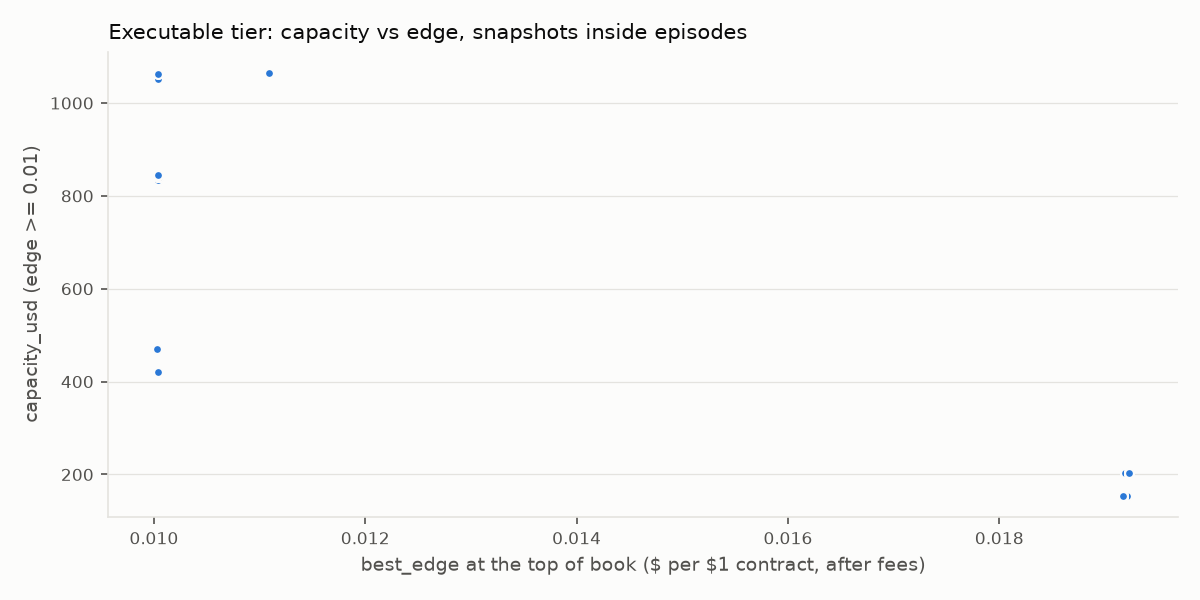
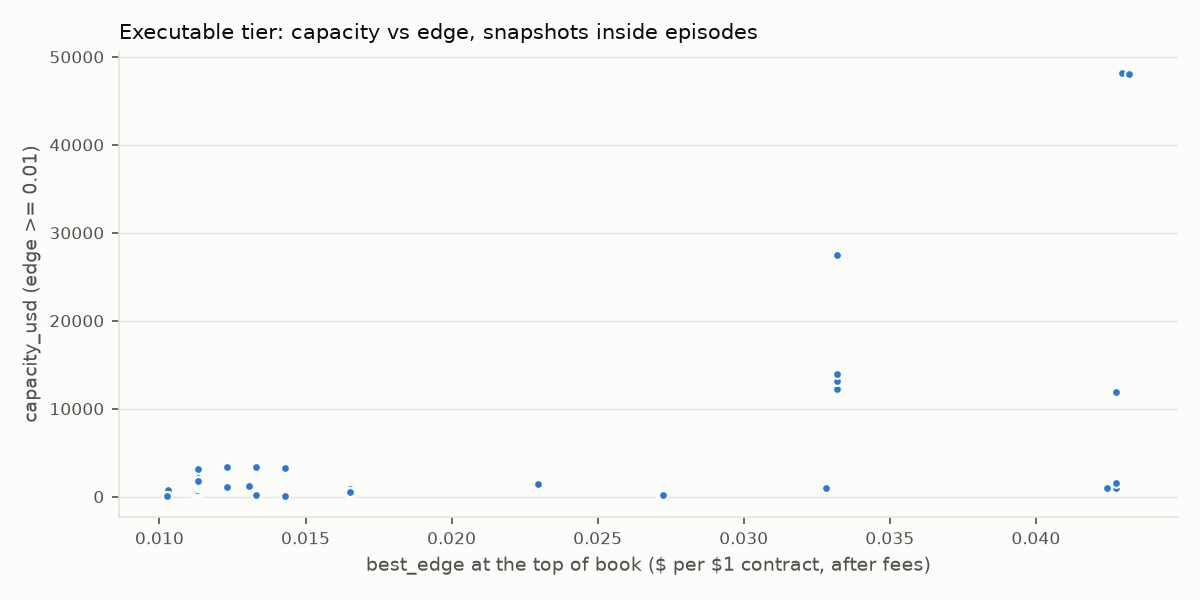
Research note regenerated at the dashboard v2 deploy: 68 h executable window, 13 episodes, ladder tier populated (2 of 1,469,130 admissible checks), review sitting recorded

diff --git a/reports/research-note-v1.md b/reports/research-note-v1.md
@@ -1,6 +1,6 @@
 # Do exact Kalshi-Polymarket matches carry arbitrage? Research note v1
 
-Generated 2026-10-20 11:05 UTC by `python -m venue_arb.report.note`. Every number below is computed from the tables named in Method at generation time; the queries are listed at the end. This is v1: the executable tier covers only the snapshots collected so far, and the note is re-run once about four weeks of snapshots exist.
+Generated 2026-10-22 15:41 UTC by `python -m venue_arb.report.note`. Every number below is computed from the tables named in Method at generation time; the queries are listed at the end. This is v1: the executable tier covers only the snapshots collected so far, and the note is re-run once about four weeks of snapshots exist.
 
 ## Question
 
@@ -8,38 +8,38 @@ When Kalshi and Polymarket list the same contract, do their prices leave money o
 
 **Short answer so far** (each figure is restated with its source under Results):
 
-- Executable tier: 3 opportunity episodes in 16.1 h of snapshots (too short to conclude anything); the largest top-of-book edge after fees was 0.0192 per $1 against a 0.01 threshold.
+- Executable tier: 13 opportunity episodes in 69.1 h of snapshots (too short to conclude anything); the largest top-of-book edge after fees was 0.0432 per $1 against a 0.01 threshold.
 - Screened tier (history, not executable): median hourly net gap -0.032; 3.5% of rows reached 0.01 (a count biased in both directions: the 1-contract fee ceiling pushes it down, the mid/last Polymarket price pushes it up; see Limits), 31.4% of those in a pair's first 7 days.
-- Same-instant crypto ladders (model-free, a separate tier): no ladder snapshots yet. Nothing has been scored, so this tier has no result in either direction.
+- Same-instant crypto ladders (model-free, a separate tier): 2 of 1,469,130 admissible cross-strike checks (0.0%, over 21 counted hours) had an executable edge >= 0.01 after fees with the strikes at least the basis bound apart; 0 episodes in 47.6 h of ladder snapshots (too short to conclude anything); largest top-of-book edge 0.0178 per $1.
 
 ## Data and window
 
 - Venues: Kalshi and Polymarket International (public read endpoints only; no orders).
-- Pairs: 15 eligible exact pairs at generation time (0 human-reviewed, 15 not), Kalshi series: `KXFEDDECISION`.
+- Pairs: 15 eligible exact pairs at generation time (15 human-reviewed, 0 not), Kalshi series: `KXFEDDECISION`.
 - Screened tier: hourly, 2026-06-18 00:00 UTC to 2026-10-19 20:00 UTC; 27,043 rows (13,751 pair-hours, up to two directions each) over 9 pairs.
-- Executable tier: order-book snapshots at a 60 s cadence, 2026-10-19 18:33 UTC to 2026-10-20 10:37 UTC (16.1 h); 14,475 aligned pair-snapshots (28,950 rows, one per direction) over 15 pairs.
-- Ladder tier: no ladder snapshots yet. The live collector snapshots same-instant ladders only from Plan 3's deployment on; `venue_arb.ladder_edges` holds no rows.
+- Executable tier: order-book snapshots at a 60 s cadence, 2026-10-19 18:33 UTC to 2026-10-22 15:37 UTC (69.1 h); 62,099 aligned pair-snapshots (124,198 rows, one per direction) over 15 pairs.
+- Ladder tier: order-book snapshots of same-instant crypto ladders at a 60 s cadence, 2026-10-20 15:10 UTC to 2026-10-22 14:48 UTC (47.6 h); 88 ladders (BTC 44, ETH 44), 5951 Kalshi and 1576 Polymarket strikes with scored rows.
 - Tier scope: both pair tiers keep every pair whose latest prompt-v3 adjudication is `exact` and that has no `wrong`/`unsure` review of that verdict (reviews made against an older prompt's verdict are ignored), whether or not it is open now (a closed pair's history is still evidence). Pairs are Kalshi-Polymarket market pairs.
   - Screened: 9 pairs in scope (9 currently eligible, 0 closed, 0 open but not currently eligible); excluded pairs with rows in the table: none.
   - Executable: 15 pairs in scope (15 currently eligible, 0 closed, 0 open but not currently eligible); excluded pairs with rows in the table: none.
 
 | Kalshi ticker | Polymarket market | LLM confidence | Human review | Closes |
 |---|---|---|---|---|
-| KXFEDDECISION-26DEC-C25 | `0xf17ad24e...` | 1.00 | none | 2026-12-09 23:59 UTC |
-| KXFEDDECISION-26DEC-C26 | `0xb9aee520...` | 1.00 | none | 2026-12-09 23:59 UTC |
-| KXFEDDECISION-26DEC-H0 | `0x723822eb...` | 1.00 | none | 2026-12-09 23:59 UTC |
-| KXFEDDECISION-26DEC-H25 | `0x8a419661...` | 1.00 | none | 2026-12-09 23:59 UTC |
-| KXFEDDECISION-26DEC-H26 | `0xa5f8a445...` | 1.00 | none | 2026-12-09 23:59 UTC |
-| KXFEDDECISION-26OCT-C25 | `0x9cf563d7...` | 1.00 | none | 2026-10-29 03:59 UTC |
-| KXFEDDECISION-26OCT-C26 | `0xa69ef420...` | 1.00 | none | 2026-10-29 03:59 UTC |
-| KXFEDDECISION-26OCT-H0 | `0xdf9bf27e...` | 1.00 | none | 2026-10-29 03:59 UTC |
-| KXFEDDECISION-26OCT-H25 | `0x12aa13b3...` | 1.00 | none | 2026-10-29 03:59 UTC |
-| KXFEDDECISION-26OCT-H26 | `0xde5d75ab...` | 1.00 | none | 2026-10-29 03:59 UTC |
-| KXFEDDECISION-27JAN-C25 | `0x0bbe79a9...` | 1.00 | none | 2027-01-28 04:59 UTC |
-| KXFEDDECISION-27JAN-C26 | `0xfd0fb47d...` | 1.00 | none | 2027-01-28 04:59 UTC |
-| KXFEDDECISION-27JAN-H0 | `0xf6e7c89e...` | 1.00 | none | 2027-01-28 04:59 UTC |
-| KXFEDDECISION-27JAN-H25 | `0x50642b28...` | 1.00 | none | 2027-01-28 04:59 UTC |
-| KXFEDDECISION-27JAN-H26 | `0x21cd6160...` | 1.00 | none | 2027-01-28 04:59 UTC |
+| KXFEDDECISION-26DEC-C25 | `0xf17ad24e...` | 1.00 | correct | 2026-12-09 23:59 UTC |
+| KXFEDDECISION-26DEC-C26 | `0xb9aee520...` | 1.00 | correct | 2026-12-09 23:59 UTC |
+| KXFEDDECISION-26DEC-H0 | `0x723822eb...` | 1.00 | correct | 2026-12-09 23:59 UTC |
+| KXFEDDECISION-26DEC-H25 | `0x8a419661...` | 1.00 | correct | 2026-12-09 23:59 UTC |
+| KXFEDDECISION-26DEC-H26 | `0xa5f8a445...` | 1.00 | correct | 2026-12-09 23:59 UTC |
+| KXFEDDECISION-26OCT-C25 | `0x9cf563d7...` | 1.00 | correct | 2026-10-29 03:59 UTC |
+| KXFEDDECISION-26OCT-C26 | `0xa69ef420...` | 1.00 | correct | 2026-10-29 03:59 UTC |
+| KXFEDDECISION-26OCT-H0 | `0xdf9bf27e...` | 1.00 | correct | 2026-10-29 03:59 UTC |
+| KXFEDDECISION-26OCT-H25 | `0x12aa13b3...` | 1.00 | correct | 2026-10-29 03:59 UTC |
+| KXFEDDECISION-26OCT-H26 | `0xde5d75ab...` | 1.00 | correct | 2026-10-29 03:59 UTC |
+| KXFEDDECISION-27JAN-C25 | `0x0bbe79a9...` | 1.00 | correct | 2027-01-28 04:59 UTC |
+| KXFEDDECISION-27JAN-C26 | `0xfd0fb47d...` | 1.00 | correct | 2027-01-28 04:59 UTC |
+| KXFEDDECISION-27JAN-H0 | `0xf6e7c89e...` | 1.00 | correct | 2027-01-28 04:59 UTC |
+| KXFEDDECISION-27JAN-H25 | `0x50642b28...` | 1.00 | correct | 2027-01-28 04:59 UTC |
+| KXFEDDECISION-27JAN-H26 | `0x21cd6160...` | 1.00 | correct | 2027-01-28 04:59 UTC |
 
 ## Method
 
@@ -50,11 +50,11 @@ When Kalshi and Polymarket list the same contract, do their prices leave money o
 **Two pair tiers, never combined** (the ladder tier below is a third, also kept apart).
 
 - *Screened* (`venue_arb.screened_v2`): Kalshi's hourly candle close ask (Yes ask, or 1 - Yes bid for No), taken at the candle's `end_period_ts`, the instant Kalshi documents the close quote for, against the Polymarket price-history print nearest that instant (within 30 minutes; none, no row) for the opposite leg, minus one contract's taker fee on each leg: `net_gap_top = 1 - k_price - pm_price - fees`. Hours where Kalshi's book side was empty give no row. Polymarket history is a traded/mid price, not an ask, so this tier says where gaps tended to appear, not that they were executable. (`venue_arb.screened`, v1, paired each Kalshi close with the Polymarket print about an hour earlier and is no longer read.)
-- *Executable* (`venue_arb.edges`, `venue_arb.opportunities`): our own order-book snapshots. A Kalshi snapshot is aligned with the nearest Polymarket snapshot within 30 s. Both ask ladders are walked together; `best_edge` is the top-of-book edge after fees and `capacity_usd` the dollars spent on both legs while the marginal edge stays >= 0.01.
+- *Executable* (`venue_arb.edges`, `venue_arb.opportunities`): our own order-book snapshots. A Kalshi snapshot is aligned with the nearest Polymarket snapshot within 30 s. Both ask ladders are walked together; `best_edge` is the top-of-book edge after fees and `capacity_usd` the dollars spent on both legs while the marginal edge stays >= 0.01. Snapshots are taken every 60 s; a gap over 150 s between consecutive snapshots breaks an episode's run.
 
-**Threshold (an episode).** Net edge >= $0.01 per $1 contract, >= $100 executable, in >= 2 consecutive snapshots (a gap over 150 s breaks the run).
+**Edge and the episode threshold.** Prices come from our own snapshots of both venues' order books, taken every 60 seconds, not from last trades or midpoints. For each exact pair we buy Yes on one venue and No on the other, walking up both venues' lists of offers slice by slice and paying each venue's taker fee, so the edge is what is left per $1 contract after the cost of trading. An episode is a stretch where that net edge is at least 1¢, at least $100 can be filled, and both hold in at least 2 consecutive snapshots.
 
-**Fees** (entries dated 2026-10-19, sources in `docs/venues.md`). Kalshi taker: `0.07 x C x P x (1-P)` times the series' `fee_multiplier` (read from the API), rounded up to the cent; the 0.07 coefficient is secondhand (see Limits). Polymarket taker: `C x rate x (P(1-P))^exponent` read from each market's own `feeSchedule` (here: `{"exponent": 1, "rate": 0.05, "rebateRate": 0.25, "takerOnly": true}`), no rounding.
+**Fees** (entries dated 2026-10-19, sources in `docs/venues.md`). Kalshi taker: `0.07 x C x P x (1-P)` times the series' `fee_multiplier` (read from the API), rounded up to the cent; the 0.07 coefficient is secondhand (see Limits). Polymarket taker: `C x rate x (P(1-P))^exponent` read from each market's own `feeSchedule` (here: `{"exponent": 1, "rate": 0, "rebateRate": 0, "takerOnly": true}`), no rounding.
 
 **Transfer cost** (an assumption, not a venue number): $10 fixed + 10 bps per round trip of capital between venues. It is reported as a sensitivity count, not subtracted from the headline edge.
 
@@ -68,12 +68,12 @@ When Kalshi and Polymarket list the same contract, do their prices leave money o
 
 | Asset | Hours (n) | up ($) | down ($) | Mean diff | Min diff | Max diff |
 |---|---|---|---|---|---|---|
-| BTC | 693 | 182 | 152 | -$48.06 (-5.8 bps) | -$151.18 | +$181.59 |
-| ETH | 693 | 6 | 7 | -$1.52 (-6.0 bps) | -$6.72 | +$5.83 |
+| BTC | 689 | 182 | 152 | -$52.97 (-6.4 bps) | -$151.18 | +$181.59 |
+| ETH | 689 | 6 | 7 | -$1.65 (-6.6 bps) | -$6.72 | +$5.83 |
 
-On average BRTI sits below Binance at the settle (BTC -$48.06 (-5.8 bps), ETH -$1.52 (-6.0 bps)), so the two venues' settle prices differ even when nothing moves; that is why same-strike pairs are not arbitrage.
+On average BRTI sits below Binance at the settle (BTC -$52.97 (-6.4 bps), ETH -$1.65 (-6.6 bps)), so the two venues' settle prices differ even when nothing moves; that is why same-strike pairs are not arbitrage.
 
-- *Admissible checks.* A cross-strike check counts only if the strikes are far enough apart that the $0 state needs a basis move beyond the bound: `k_yes_pm_no` needs b - a >= down, `pm_yes_k_no` needs a - b >= up. These are stored as `kind = 'arb'`.
+- *Admissible checks.* Both venues list Bitcoin and Ethereum price ladders, but they settle on different price indexes, so only ladders that settle at the same instant are compared. A Kalshi strike against a different Polymarket strike counts only when the gap between the two strikes is at least the 99.9th percentile of the difference between the two settlement indexes over the past 30 days. Then at least one leg pays out in every state, as long as the indexes stay within that measured range. In the stored terms, `k_yes_pm_no` needs b - a >= down and `pm_yes_k_no` needs a - b >= up; these checks are stored as `kind = 'arb'`.
 - *Near-exact same-strike pairs* (|a - b| <= $1 after normalization, e.g. Kalshi `T81499.99` vs Polymarket "above 81,500") are classified first, scored in both directions and stored as `kind = 'near_exact'`. Both legs lose if the settle falls between the two indices, a band up to `down` (`k_yes_pm_no`) or `up` (`pm_yes_k_no`) dollars wide, so they are reported separately with that exposure and never as arbitrage, and they form no episodes.
 - *Pruning and the denominator.* Per Kalshi strike and direction only the 2 nearest admissible Polymarket strikes are scored and stored: the cost is Kalshi Yes(a) + Polymarket No(b), and No(b) rises with b, so the nearest admissible strike is the cheapest when books are monotone (the second is margin for books that are not). Every admissible check, scored or pruned, is counted by the scoring flow and recorded as the `ladder_admissible_checks` qa result; that count is the denominator. A check is one strike pair, one direction, one aligned snapshot. Each hourly run rescores the last 3 h but counts only snapshots in the 1-hour clock bucket before its start (the bucket is recorded with the count), so successive runs count disjoint hours and their sum counts each snapshot once; a manual re-run of a bucket is kept once. The numerator is restricted to the same hours. A failed or skipped run leaves its hour out of both, so the share covers counted hours only; tests record under a separate qa pipeline and never enter it.
 - *Execution rules* are the executable tier's: ask ladders walked together with taker fees on both legs, snapshots aligned within 30 s, edge threshold 0.01, the same episode definition. Only snapshots strictly before H count (from H on, the outcome is being fixed). Episodes are stored in `venue_arb.opportunities` with `source = 'ladder'`; every pair-tier query reads `source = 'pair'` only.
@@ -106,36 +106,36 @@ On average BRTI sits below Binance at the settle (BTC -$48.06 (-5.8 bps), ETH -$
 
 ### Executable tier (order books)
 
-- Aligned pair-snapshots: 14,475; with capacity > 0 in either direction (marginal edge >= 0.01 at the top): 704 (4.9%).
-- `best_edge` (per row, both directions) p50 -0.0144, max 0.0192.
-- Opportunity episodes: 3. Duration median 121.0 min, max 570.0 min; median capacity $834, max $1,065; median annualized edge 8.0%.
-- Episodes still positive after the transfer assumption: 1 of 3 (approximate and optimistic: it credits each episode's maximum edge on all of its median capacity, against `transfer_cost_usd`).
+- Aligned pair-snapshots: 62,099; with capacity > 0 in either direction (marginal edge >= 0.01 at the top): 3,937 (6.3%).
+- `best_edge` (per row, both directions) p50 -0.0084, max 0.0432.
+- Opportunity episodes: 13. Duration median 58.0 min, max 840.0 min; median capacity $396, max $13,242; median annualized edge 8.5%.
+- Episodes still positive after the transfer assumption: 4 of 13 (approximate and optimistic: it credits each episode's maximum edge on all of its median capacity, against `transfer_cost_usd`).
 
 | Kalshi ticker | Snapshots | Max best_edge | Snapshots with capacity > 0 |
 |---|---|---|---|
-| KXFEDDECISION-26DEC-C25 | 965 | 0.0020 | 0 |
-| KXFEDDECISION-26DEC-C26 | 965 | -0.0078 | 0 |
-| KXFEDDECISION-26DEC-H0 | 965 | 0.0192 | 122 |
-| KXFEDDECISION-26DEC-H25 | 965 | 0.0077 | 0 |
-| KXFEDDECISION-26DEC-H26 | 965 | 0.0111 | 582 |
-| KXFEDDECISION-26OCT-C25 | 965 | -0.0078 | 0 |
-| KXFEDDECISION-26OCT-C26 | 965 | n/a | 0 |
-| KXFEDDECISION-26OCT-H0 | 965 | -0.0144 | 0 |
-| KXFEDDECISION-26OCT-H25 | 965 | -0.0144 | 0 |
-| KXFEDDECISION-26OCT-H26 | 965 | -0.0078 | 0 |
-| KXFEDDECISION-27JAN-C25 | 965 | 0.0050 | 0 |
-| KXFEDDECISION-27JAN-C26 | 965 | -0.0050 | 0 |
-| KXFEDDECISION-27JAN-H0 | 965 | -0.0178 | 0 |
-| KXFEDDECISION-27JAN-H25 | 965 | -0.0266 | 0 |
-| KXFEDDECISION-27JAN-H26 | 965 | -0.0054 | 0 |
+| KXFEDDECISION-26DEC-C25 | 4,140 | 0.0023 | 0 |
+| KXFEDDECISION-26DEC-C26 | 4,140 | -0.0057 | 0 |
+| KXFEDDECISION-26DEC-H0 | 4,140 | 0.0272 | 227 |
+| KXFEDDECISION-26DEC-H25 | 4,140 | 0.0165 | 714 |
+| KXFEDDECISION-26DEC-H26 | 4,140 | 0.0143 | 2,476 |
+| KXFEDDECISION-26OCT-C25 | 4,139 | -0.0077 | 0 |
+| KXFEDDECISION-26OCT-C26 | 4,140 | n/a | 0 |
+| KXFEDDECISION-26OCT-H0 | 4,140 | 0.0048 | 0 |
+| KXFEDDECISION-26OCT-H25 | 4,140 | 0.0043 | 0 |
+| KXFEDDECISION-26OCT-H26 | 4,140 | -0.0077 | 0 |
+| KXFEDDECISION-27JAN-C25 | 4,140 | 0.0083 | 0 |
+| KXFEDDECISION-27JAN-C26 | 4,140 | -0.0047 | 0 |
+| KXFEDDECISION-27JAN-H0 | 4,140 | 0.0429 | 510 |
+| KXFEDDECISION-27JAN-H25 | 4,140 | 0.0432 | 10 |
+| KXFEDDECISION-27JAN-H26 | 4,140 | -0.0027 | 0 |
 
 ![Executable tier](executable-edge.png)
 
-*Executable tier. Each dot is one snapshot inside one of the 3 episodes: edge at the top of book against dollars executable before the edge falls below 0.01.*
+*Executable tier. Each dot is one snapshot inside one of the 13 episodes: edge at the top of book against dollars executable before the edge falls below 0.01.*
 
 ### Jurisdiction cut (US)
 
-- Episodes executable within the US: 0 of 3. Polymarket International is the only Polymarket venue scored, and it blocks US trading (US_EXECUTABLE = {'kalshi': True, 'polymarket': False}, docs/venues.md geoblock entry), so no pair has both legs executable from the US.
+- Episodes executable within the US: 0 of 13. Polymarket International is the only Polymarket venue scored, and it blocks US trading (US_EXECUTABLE = {'kalshi': True, 'polymarket': False}, docs/venues.md geoblock entry), so no pair has both legs executable from the US.
 
 ### Contract-term differences (tail risk)
 
@@ -189,22 +189,52 @@ Clauses recorded as rare edge cases that keep each eligible pair exact (latest a
 
 ### Same-instant crypto ladders (model-free)
 
-**No ladder snapshots yet.** `venue_arb.ladder_edges` has no rows: the live collector starts snapshotting same-instant ladders only when Plan 3 is deployed, so there are no checks, no episodes and no near-exact pairs to report. This is an absence of data, not a negative result.
+- Ladders with scored rows: 88 (BTC 44, ETH 44); snapshots 2026-10-20 15:10 UTC to 2026-10-22 14:48 UTC (47.6 h); 5951 Kalshi strikes, 1576 Polymarket strikes.
+- Admissible cross-strike checks: 1,469,130 over 21 counted hours (successful `ladder_score` runs); scored in those hours: 254,165; with an executable edge >= 0.01 (capacity > 0): 2 (0.0% of admissible).
+- All scored rows (the 2 nearest per Kalshi strike and direction, every hour stored): 670,934; with an executable edge >= 0.01: 2 (0.0% of scored).
+- Largest top-of-book `best_edge` on an admissible check: 0.0178 per $1.
+- Episodes (`source = 'ladder'`): 0, so there are no durations or capacities to report.
+- Basis bounds the stored rows were scored under: BTC up 182 / down 152; ETH up 6 / down 7.
+
+**Near-exact same-strike pairs (not arbitrage).** 122,384 checks over 2944 pair-directions; 4,585 with an edge >= 0.01, each of which pays $0 on both legs if the settle lands inside its exposure band. Top 20 by largest edge:
+
+| Asset | Instant | Kalshi strike a | PM strike b | Direction | Snapshots | Max best_edge | Snapshots with capacity > 0 | Exposure band ($) |
+|---|---|---|---|---|---|---|---|---|
+| BTC | 2026-10-22 11:00 UTC | 81,999.99 | 82,000.00 | `k_yes_pm_no` | 46 | 0.9253 | 46 | 152 |
+| BTC | 2026-10-21 22:00 UTC | 84,799.99 | 84,800.00 | `k_yes_pm_no` | 47 | 0.9251 | 45 | 152 |
+| ETH | 2026-10-21 07:00 UTC | 2,439.99 | 2,440.00 | `k_yes_pm_no` | 47 | 0.9146 | 47 | 7 |
+| BTC | 2026-10-21 10:00 UTC | 83,399.99 | 83,400.00 | `k_yes_pm_no` | 46 | 0.8830 | 45 | 152 |
+| BTC | 2026-10-21 03:00 UTC | 82,799.99 | 82,800.00 | `k_yes_pm_no` | 46 | 0.8827 | 46 | 152 |
+| BTC | 2026-10-21 06:00 UTC | 82,599.99 | 82,600.00 | `k_yes_pm_no` | 47 | 0.8813 | 31 | 152 |
+| BTC | 2026-10-22 13:00 UTC | 81,599.99 | 81,600.00 | `k_yes_pm_no` | 47 | 0.8552 | 43 | 152 |
+| ETH | 2026-10-22 12:00 UTC | 2,399.99 | 2,400.00 | `k_yes_pm_no` | 46 | 0.8512 | 46 | 7 |
+| BTC | 2026-10-22 01:00 UTC | 84,199.99 | 84,200.00 | `k_yes_pm_no` | 46 | 0.8509 | 43 | 152 |
+| ETH | 2026-10-21 12:00 UTC | 2,469.99 | 2,470.00 | `k_yes_pm_no` | 46 | 0.8406 | 34 | 7 |
+| ETH | 2026-10-22 03:00 UTC | 2,439.99 | 2,440.00 | `k_yes_pm_no` | 46 | 0.8186 | 26 | 7 |
+| BTC | 2026-10-21 02:00 UTC | 82,999.99 | 83,000.00 | `k_yes_pm_no` | 47 | 0.8077 | 46 | 152 |
+| BTC | 2026-10-21 09:00 UTC | 83,199.99 | 83,200.00 | `k_yes_pm_no` | 47 | 0.7461 | 45 | 152 |
+| BTC | 2026-10-21 01:00 UTC | 82,999.99 | 83,000.00 | `k_yes_pm_no` | 47 | 0.7391 | 46 | 152 |
+| BTC | 2026-10-21 19:00 UTC | 84,399.99 | 84,400.00 | `k_yes_pm_no` | 47 | 0.6984 | 7 | 152 |
+| BTC | 2026-10-20 23:00 UTC | 82,999.99 | 83,000.00 | `k_yes_pm_no` | 50 | 0.6093 | 48 | 152 |
+| BTC | 2026-10-22 04:00 UTC | 82,799.99 | 82,800.00 | `k_yes_pm_no` | 47 | 0.5882 | 43 | 152 |
+| BTC | 2026-10-22 10:00 UTC | 81,799.99 | 81,800.00 | `k_yes_pm_no` | 43 | 0.5465 | 41 | 152 |
+| ETH | 2026-10-20 18:00 UTC | 2,449.99 | 2,450.00 | `k_yes_pm_no` | 49 | 0.5391 | 43 | 7 |
+| BTC | 2026-10-20 18:00 UTC | 82,799.99 | 82,800.00 | `k_yes_pm_no` | 49 | 0.5153 | 48 | 152 |
 
 ## Limits
 
 - 60 s sampling misses gaps that open and close within a minute; the executable and ladder tiers can only undercount those.
-- The executable window is 16.1 hours long. Zero or few episodes over hours says little about weeks; v1-final re-runs this after about four weeks of snapshots.
+- The executable window is 69.1 hours long. Zero or few episodes over hours says little about weeks; v1-final re-runs this after about four weeks of snapshots.
 - Kalshi's 0.07 taker coefficient is secondhand and unverified (the fee-schedule PDF could not be fetched; `docs/venues.md`). Polymarket's fee rounding rule is unverified. Either could move edges by up to about a cent per contract at mid prices, in the executable and ladder tiers alike.
 - The screened tier charges Kalshi's fee on one contract, ceiled to the cent (at 50c: 0.07 x 0.25 = $0.0175, charged as $0.02), so screened net gaps can be understated by up to ~$0.01 per contract, the same size as the 0.01 threshold. The executable tier rounds per order-book slice, where the cent is spread over the slice's contracts.
 - Polymarket price history is a traded/mid price, not an ask, so the screened tier overstates what was takeable; screened hours are never called arbitrage.
 - Annualized figures use days to the later of the two trading close times, not to payout. Polymarket settles through UMA's oracle, which can pay out later than trading closes, so annualized edges are slightly overstated.
 - Few exact pairs (15), from Kalshi series `KXFEDDECISION`; nothing here generalizes to other categories.
-- Matches were adjudicated by a deterministic rule (rule:fed-v1 (prompt v3)); no human review sitting has happened yet: 0 of 15 eligible pairs reviewed, 15 unreviewed.
+- Matches were adjudicated by a deterministic rule (rule:fed-v1 (prompt v3)); human review: 15 of 15 eligible pairs reviewed, 0 unreviewed.
 - No execution latency, fill risk, partial fills, or capital lock-up costs beyond the annualized figure are modeled. The transfer cost is an assumption, reported as a sensitivity only.
-- Ladder tier: "pays in every state" holds only inside the measured basis range. The bound is the 0.999 quantile of 30 days of hourly settles; a basis move beyond it breaks the guarantee for any spread whose strike gap it exceeds. Observed diff range over the window: BTC -$151.18 to +$181.59; ETH -$6.72 to +$5.83. With BTC n = 693, ETH n = 693 hours, the 0.999 nearest-rank quantile is the largest observed move, so each bound is set by a single hour, rounded up to $1: one larger hour, which a 30-day window gives no reason to rule out, breaks it.
+- Ladder tier: "pays in every state" holds only inside the measured basis range. The bound is the 0.999 quantile of 30 days of hourly settles; a basis move beyond it breaks the guarantee for any spread whose strike gap it exceeds. Observed diff range over the window: BTC -$151.18 to +$181.59; ETH -$6.72 to +$5.83. With BTC n = 689, ETH n = 689 hours, the 0.999 nearest-rank quantile is the largest observed move, so each bound is set by a single hour, rounded up to $1: one larger hour, which a 30-day window gives no reason to rule out, breaks it.
 - Ladder tier: only Kalshi strikes inside Polymarket's range (padded by the basis bound) are snapshotted, at most 60 per ladder, and only the nearest admissible strikes are scored; a violation that shows only at a farther strike in a non-monotone book is missed (the positive counts can only undercount).
-- Ladder tier window: 0.0 hours of ladder snapshots, i.e. none yet.
+- Ladder tier window: 47.6 hours of ladder snapshots.
 
 ## Next
 
@@ -221,7 +251,7 @@ SELECT ts, kalshi_id, pm_id, direction, best_edge, capacity_usd FROM venue_arb.e
 SELECT kalshi_id, pm_id, direction, start_ts, end_ts, snapshots, max_edge, median_capacity_usd, annualized, us_executable, transfer_cost_usd FROM venue_arb.opportunities WHERE source = 'pair'
 -- ladder tier: spreads, one row per strike pair x direction x stored bounds
 SELECT asset, instant, k_id, pm_id, direction, kind, a, b, basis_up, basis_down, count() AS snapshots,
-       countIf(capacity_usd > 0) AS n_capacity_gt0, max(best_edge) AS best_edge_max, min(ts) AS first_ts,
+       countIf(capacity_contracts > 0) AS n_capacity_gt0, max(best_edge) AS best_edge_max, min(ts) AS first_ts,
        max(ts) AS last_ts
 FROM venue_arb.ladder_edges FINAL WHERE k_id NOT LIKE 'ZZTEST-%'
 GROUP BY asset, instant, k_id, pm_id, direction, kind, a, b, basis_up, basis_down
@@ -230,7 +260,7 @@ SELECT kalshi_id, pm_id, direction, start_ts, end_ts, snapshots, max_edge, media
 -- ladder tier: basis window (bounds via venue_arb.basis.bounds)
 SELECT asset, diff, binance FROM venue_arb.basis FINAL WHERE instant > now() - INTERVAL 30 DAY
 -- ladder tier: numerator per hour
-SELECT toStartOfHour(ts) AS hour, count() AS scored, countIf(capacity_usd > 0) AS pos
+SELECT toStartOfHour(ts) AS hour, count() AS scored, countIf(capacity_contracts > 0) AS pos
 FROM venue_arb.ladder_edges FINAL WHERE kind = 'arb' AND k_id NOT LIKE 'ZZTEST-%'
   AND (asset, instant, basis_up, basis_down) IN (
     SELECT asset, instant, argMax(basis_up, ts), argMax(basis_down, ts)
